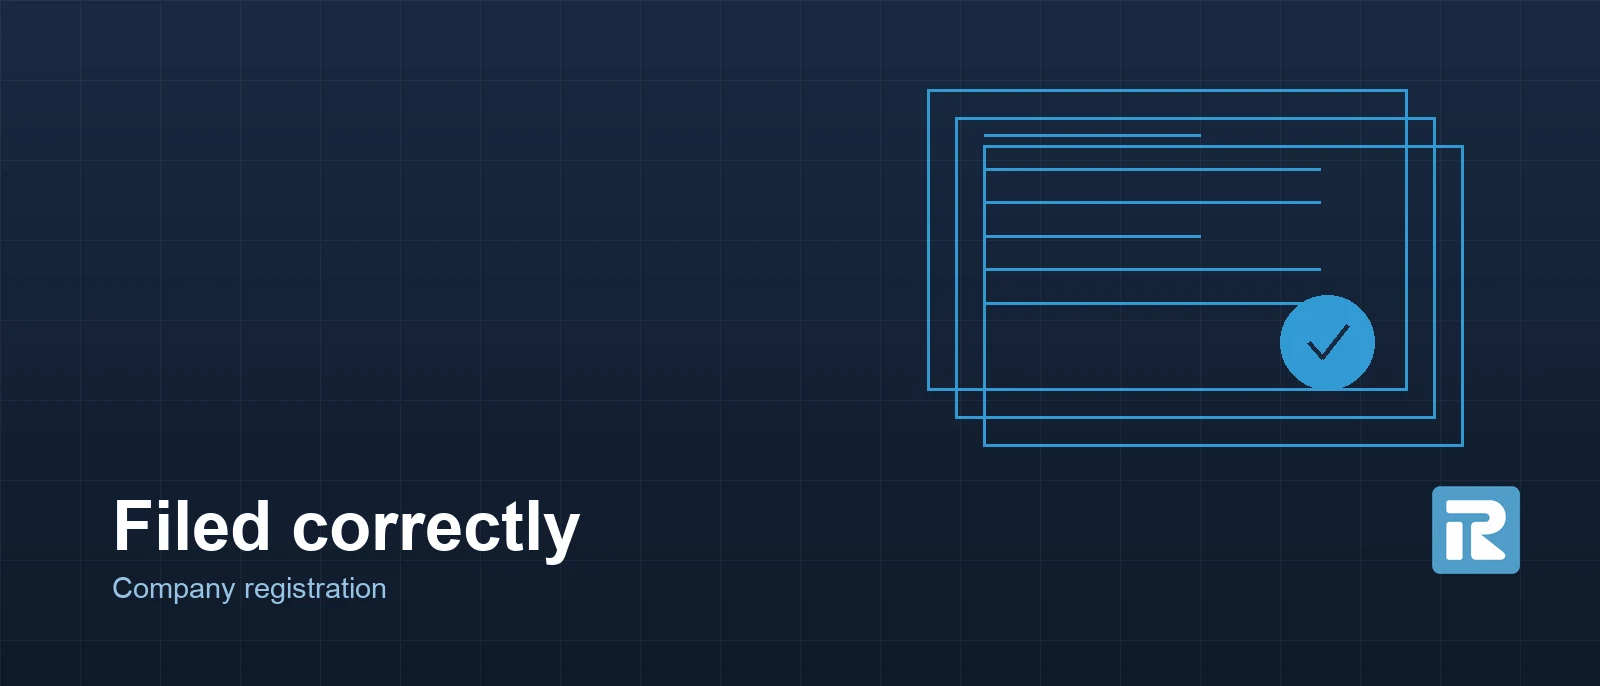
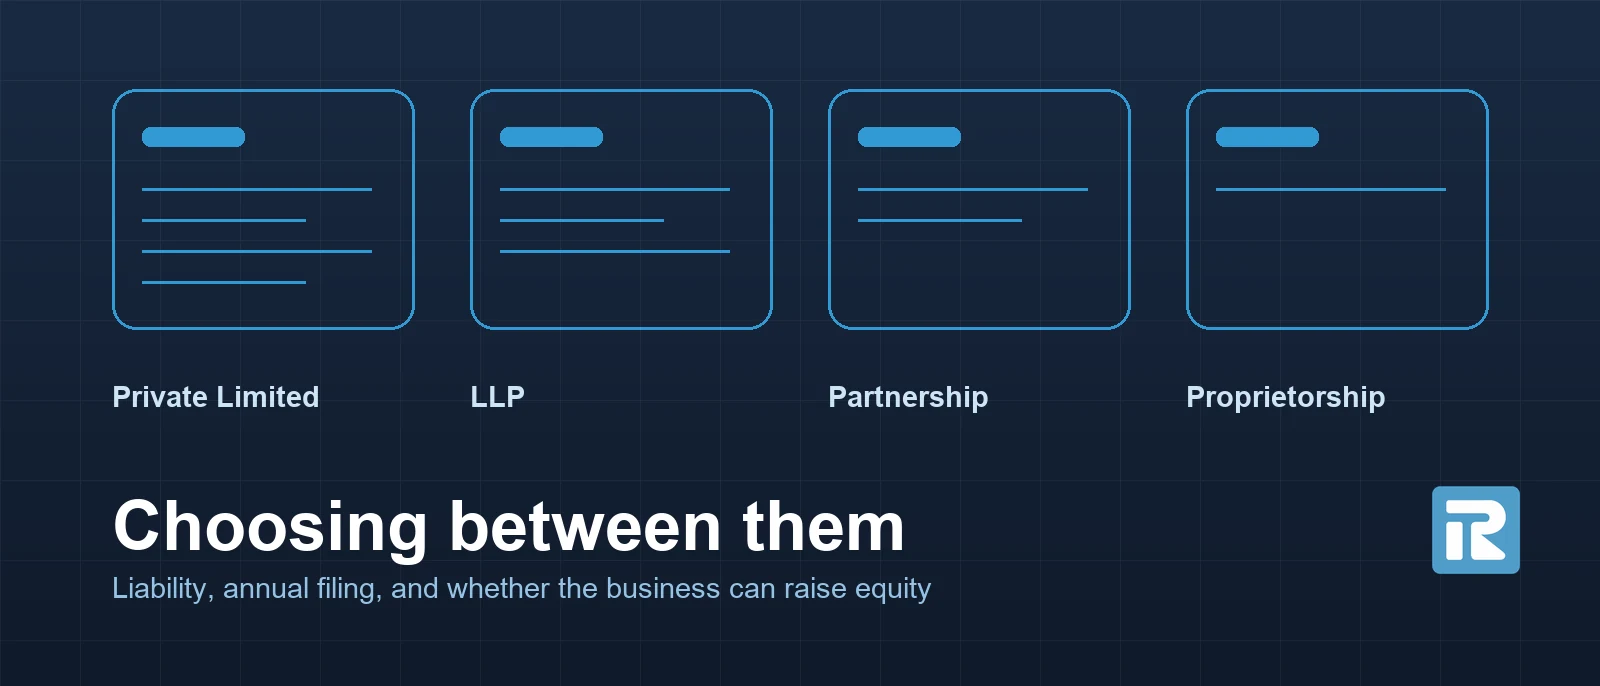
Fix the panels on the pages below the homepage
Three faults, none of them on the homepage.

The registration pillar was showing the same drawing as all four pages
beneath it: /services/business-registration/ and each of the four
structure pages rendered the stacked sheets and seal, so one picture was
doing duty across five pages in the same funnel. The pillar now draws
what it is actually for, which is the choice rather than the filing: the
four structures side by side, with the number of rules inside each card
falling from left to right because the annual compliance does too.

The Raulji Technologies panel was drawn but placed on no page, and what
it drew -- two circles and three floating lines -- said nothing. The
technology pages meanwhile carried a "Technology is a separate brand"
card that was three lines of text above a large empty box. The panel is
redrawn as two site frames, raulji.com and rauljitechnologies.com, with
the one link between them, and now sits in that card on both pages.

Every secondary service page ended in half a blank page: the left column
runs out well before the enquiry form beside it does. Insurance and the
two compliance pages had no imagery at all. Insurance gets a panel whose
caption says the insurer sets the terms, matching the disclaimer already
on the page, and the compliance pages get one financial year with its
filing dates marked. Both are placed through a new image field on the
service, so the template decides where rather than each page.
[…]

diff --git a/lib/secondary-services.ts b/lib/secondary-services.ts
@@ -15,6 +15,8 @@
  * consulting entry here; it would create two pages for the same intent.
  */
 
+import type { ImageSlot } from "@/lib/images";
+
 export interface SecondaryService {
   slug: string;
   path: string;
@@ -27,6 +29,14 @@ export interface SecondaryService {
   /** What the service actually covers. No outcome guarantees. */
   includes: string[];
   note?: string;
+  /**
+   * The panel this page shows. These pages are compact by design, and the left
+   * column runs out well before the enquiry form beside it does, which left a
+   * blank half-page on every one of them. One image per service closes it.
+   * Pages in the same group share a panel; nothing here is drawn twice for the
+   * sake of having a different picture.
+   */
+  image: ImageSlot;
 }
 
 /*
@@ -58,6 +68,7 @@ export const SECONDARY_SERVICES: SecondaryService[] = [
       "Support through the claims process",
     ],
     note: "Policy terms, premiums and claim outcomes are set by the insurer, not by us. We help you understand and arrange cover; we do not underwrite it.",
+    image: "insurance",
   },
   {
     slug: "it",
@@ -78,6 +89,7 @@ export const SECONDARY_SERVICES: SecondaryService[] = [
       "Cloud and infrastructure support",
     ],
     note: "Technology services are offered through Raulji Technologies at rauljitechnologies.com.",
+    image: "technologies",
   },
   {
     slug: "digital",
@@ -98,6 +110,7 @@ export const SECONDARY_SERVICES: SecondaryService[] = [
       "Analytics and reporting",
     ],
     note: "Digital marketing services are offered through Raulji Technologies at rauljitechnologies.com.",
+    image: "technologies",
   },
   {
     slug: "pvt-compliance",
@@ -119,6 +132,7 @@ export const SECONDARY_SERVICES: SecondaryService[] = [
       "Board meeting and minute record-keeping",
     ],
     note: "Statutory audit is required for a Private Limited Company from its first financial year regardless of turnover. Late ROC filing attracts additional fees that accrue over time.",
+    image: "compliance",
   },
   {
     slug: "llp-compliance",
@@ -139,6 +153,7 @@ export const SECONDARY_SERVICES: SecondaryService[] = [
       "Designated partner KYC",
     ],
     note: "Audit is required where turnover exceeds ₹40 lakh or contribution exceeds ₹25 lakh. Late filing of Form 8 or Form 11 attracts a per-day penalty that continues to accrue until the filing is made.",
+    image: "compliance",
   },
 ];
 

diff --git a/components/pages/secondary-service.tsx b/components/pages/secondary-service.tsx
@@ -6,6 +6,7 @@ import { JsonLd } from "@/components/ui/json-ld";
 import { ServiceCards } from "@/components/shared/service-cards";
 import { CtaBanner } from "@/components/shared/cta-banner";
 import { LeadForm } from "@/components/forms/lead-form";
+import { BrandImage } from "@/components/ui/brand-image";
 import type { SecondaryService } from "@/lib/secondary-services";
 import { SITE, telHref } from "@/lib/site";
 import { breadcrumbSchema, graph, type Crumb } from "@/lib/schema";
@@ -85,6 +86,19 @@ export function SecondaryServicePage({ service }: { service: SecondaryService })
                 {service.note}
               </p>
             ) : null}
+
+            {/* The enquiry form beside this column is taller than the list, so
+                the column ended in half a page of nothing on every one of these
+                pages. Drawn at 3:2, the ratio it renders at, and hidden below lg
+                where the two columns stack and it would only add scroll. */}
+            {!isTechnology ? (
+              <BrandImage
+                slot={service.image}
+                sizes="(min-width: 1024px) 34rem, 100vw"
+                aspect="aspect-[3/2]"
+                className="mt-10 hidden lg:block"
+              />
+            ) : null}
           </div>
 
           {!isTechnology ? (
@@ -110,6 +124,16 @@ export function SecondaryServicePage({ service }: { service: SecondaryService })
               >
                 Go to rauljitechnologies.com &rarr;
               </a>
+              {/* A technology page has no enquiry form, so this card carried
+                  three lines of text and a large empty box below them. The
+                  panel draws the same point the card makes: two sites, one
+                  link. */}
+              <BrandImage
+                slot={service.image}
+                sizes="(min-width: 1024px) 30rem, 100vw"
+                aspect="aspect-[3/2]"
+                className="mt-7"
+              />
             </div>
           )}
         </div>

diff --git a/lib/images.ts b/lib/images.ts
@@ -9,6 +9,8 @@ import documents from "@/public/photos/raulji-group-documents.webp";
 import gujarat from "@/public/photos/raulji-group-gujarat.webp";
 import technologies from "@/public/photos/raulji-technologies.webp";
 import enquiry from "@/public/photos/raulji-group-enquiry.webp";
+import insurance from "@/public/photos/raulji-group-insurance.webp";
+import compliance from "@/public/photos/raulji-group-compliance.webp";
 
 /**
  * The image slots from the plan in AUDIT.md.
@@ -61,9 +63,10 @@ export const IMAGES = {
     alt: "Business consulting at Raulji Group: clearer decisions",
     placeholder: false,
   },
+  /** Wide band, 21:9. The four structures a business can register as. */
   registration: {
     src: registration,
-    alt: "Company registration handled by Raulji Group",
+    alt: "The four registration structures side by side: Private Limited, LLP, Partnership and Proprietorship, each with less annual filing than the last",
     placeholder: false,
   },
   meeting: {
@@ -83,12 +86,22 @@ export const IMAGES = {
   },
   technologies: {
     src: technologies,
-    alt: "Raulji Technologies, the group's separate technology brand",
+    alt: "raulji.com and rauljitechnologies.com drawn as two separate sites with one link between them",
     placeholder: false,
   },
   enquiry: {
     src: enquiry,
     alt: "Tell Raulji Group what you are building",
+    placeholder: false,
+  },
+  insurance: {
+    src: insurance,
+    alt: "Insurance cover drawn over a business, arranged by Raulji Group and underwritten by the insurer",
+    placeholder: false,
+  },
+  compliance: {
+    src: compliance,
+    alt: "One financial year with its filing dates marked on it",
     placeholder: false,
   },
 } as const satisfies Record<string, BrandImageEntry>;

diff --git a/scripts/gen-panels.py b/scripts/gen-panels.py
@@ -138,17 +138,34 @@ def gujarat(w=1600,h=900):
     cr=int(w/26); d.ellipse([cx-cr,cy-cr,cx+cr,cy+cr],fill=(*BLUE,255))
     return label(im,"Across Gujarat","Filed online from Vadodara")
 
-# 6. Technologies: the separate brand, shown as a second node.
+# 6. Technologies: two sites, not one catalogue.
+# The page this sits on exists to send people somewhere else, so the drawing is
+# two separate frames and the one link between them. The right hand one is
+# outline only: it is not this site, and it is not drawn as though it were.
 def technologies(w=1200,h=800):
     im=base(w,h); d=ImageDraw.Draw(im)
-    y=int(h*0.34); ax,bx=int(w*0.56),int(w*0.84); r=int(w/22)
-    d.line([(ax+r,y),(bx-r,y)],fill=(*BLUE,110),width=3)
-    d.ellipse([ax-r,y-r,ax+r,y+r],outline=(*BLUE,220),width=4)
-    d.ellipse([bx-r,y-r,bx+r,y+r],fill=(*BLUE,255))
-    for i in range(3):
-        yy=y+int(h*0.16)+i*int(h*0.06)
-        d.line([(bx-r,yy),(bx+r,yy)],fill=(*BLUE,70),width=2)
-    return label(im,"Raulji Technologies","A separate technology brand")
+    top=int(h*0.14); fh=int(h*0.30)
+    def frame(x0,x1,here):
+        bar=int(h*0.045)
+        a=235 if here else 110
+        d.rounded_rectangle([x0,top,x1,top+fh],radius=int(h*0.022),outline=(*BLUE,a),width=4 if here else 3)
+        d.line([(x0,top+bar),(x1,top+bar)],fill=(*BLUE,a-40),width=3)
+        for i in range(3):
+            ly=top+bar+int(fh*(i+1)/4.6)
+            lw=(x1-x0)*(0.62 if i%2 else 0.40)
+            d.line([(x0+int((x1-x0)*0.10),ly),(x0+int((x1-x0)*0.10)+lw,ly)],fill=(*BLUE,90 if here else 55),width=3)
+    ax0,ax1=int(w*0.09),int(w*0.44)
+    bx0,bx1=int(w*0.56),int(w*0.91)
+    frame(ax0,ax1,True)
+    frame(bx0,bx1,False)
+    # the one link between them, drawn as a link and nothing more
+    my=top+fh//2
+    d.line([(ax1+int(w*0.015),my),(bx0-int(w*0.030),my)],fill=(*BLUE,150),width=3)
+    d.polygon([(bx0-int(w*0.012),my),(bx0-int(w*0.032),my-int(h*0.018)),(bx0-int(w*0.032),my+int(h*0.018))],fill=(*BLUE,200))
+    f=font(int(w/56),True)
+    d.text((ax0,top+fh+int(h*0.045)),"raulji.com",font=f,fill=(210,230,245))
+    d.text((bx0,top+fh+int(h*0.045)),"rauljitechnologies.com",font=f,fill=(150,195,228))
+    return label(im,"On its own domain","Technology work is delivered by Raulji Technologies")
 
 # 7. Enquiry: a form and a reply.
 def enquiry(w=1200,h=800):
@@ -179,12 +196,75 @@ def group(w=1800,h=771):
     d.text((px-int(pr*2.4),py-int(h*0.20)),"Raulji Group",font=font(int(w/48),True),fill=(255,255,255))
     return label(im,"One group, two brands","Kept separate because they do different work")
 
+# 9. The registration pillar: the four structures, side by side.
+# It previously reused the documents drawing, which is what every page below it
+# already shows, so the pillar and its four children carried one picture between
+# them. This draws what the pillar is for: the choice, not the filing. The
+# number of rules inside each card falls from left to right because the annual
+# compliance does too, which is what the page says in words.
+def structures(w=1600,h=686):
+    im=base(w,h); d=ImageDraw.Draw(im)
+    names=[("Private Limited",4),("LLP",3),("Partnership",2),("Proprietorship",1)]
+    x0,x1=int(w*0.07),int(w*0.93); gap=int(w*0.035)
+    cw=(x1-x0-gap*(len(names)-1))//len(names)
+    top=int(h*0.13); ch=int(h*0.35)
+    for i,(name,rules) in enumerate(names):
+        x=x0+i*(cw+gap)
+        d.rounded_rectangle([x,top,x+cw,top+ch],radius=int(h*0.035),outline=(*BLUE,175),width=3)
+        d.rounded_rectangle([x+int(cw*0.10),top+int(ch*0.16),x+int(cw*0.44),top+int(ch*0.16)+int(h*0.028)],
+                            radius=int(h*0.012),fill=(*BLUE,235))
+        for k in range(rules):
+            ly=top+int(ch*0.42)+k*int(ch*0.13)
+            d.line([(x+int(cw*0.10),ly),(x+int(cw*(0.86 if k%2==0 else 0.64)),ly)],fill=(*BLUE,85),width=3)
+        d.text((x,top+ch+int(h*0.075)),name,font=font(int(w/54),True),fill=(205,228,244))
+    return label(im,"Choosing between them","Liability, annual filing, and whether the business can raise equity")
+
+# 10. Insurance: what the page can honestly claim. Cover is arranged over a
+# business; the terms belong to the insurer, and the caption says so rather than
+# drawing a guarantee.
+def insurance(w=1200,h=800):
+    im=base(w,h); d=ImageDraw.Draw(im)
+    cx,base_y=int(w*0.70),int(h*0.47)
+    bw,bh=int(w*0.15),int(h*0.15)
+    d.rounded_rectangle([cx-bw//2,base_y-bh,cx+bw//2,base_y],radius=int(h*0.02),outline=(*BLUE,220),width=4)
+    for i in range(2):
+        ly=base_y-bh+int(bh*(i+1)/3)
+        d.line([(cx-bw//2,ly),(cx+bw//2,ly)],fill=(*BLUE,70),width=2)
+    for r,alpha,dash in ((int(w*0.19),200,False),(int(w*0.25),95,True)):
+        box=[cx-r,base_y-r,cx+r,base_y+r]
+        if not dash:
+            d.arc(box,200,340,fill=(*BLUE,alpha),width=5)
+        else:
+            for a in range(200,340,10):
+                d.arc(box,a,a+6,fill=(*BLUE,alpha),width=4)
+    d.line([(cx-int(w*0.26),base_y),(cx+int(w*0.26),base_y)],fill=(*BLUE,70),width=3)
+    return label(im,"Cover that fits the business","We help arrange it; the insurer sets the terms")
+
+# 11. Compliance: the year, with the dates that come round on it. Not a chart,
+# and nothing counted: an annual cycle drawn as an annual cycle.
+def compliance(w=1200,h=800):
+    im=base(w,h); d=ImageDraw.Draw(im)
+    x0,x1=int(w*0.40),int(w*0.93); y=int(h*0.30); bh=int(h*0.095)
+    d.rounded_rectangle([x0,y,x1,y+bh],radius=int(h*0.014),outline=(*BLUE,170),width=3)
+    seg=(x1-x0)/12
+    for i in range(1,12):
+        d.line([(x0+int(seg*i),y),(x0+int(seg*i),y+bh)],fill=(*BLUE,55),width=2)
+    for i in (2,5,8,10):
+        d.rounded_rectangle([x0+int(seg*i)+3,y+3,x0+int(seg*(i+1))-3,y+bh-3],radius=int(h*0.008),fill=(*BLUE,230))
+        mx=x0+int(seg*(i+0.5))
+        d.polygon([(mx,y-int(h*0.026)),(mx-int(w*0.014),y-int(h*0.070)),(mx+int(w*0.014),y-int(h*0.070))],fill=(*BLUE,170))
+    d.line([(x0,y+bh+int(h*0.055)),(x1,y+bh+int(h*0.055))],fill=(*BLUE,45),width=2)
+    d.text((x0,y+bh+int(h*0.085)),"One financial year",font=font(int(w/58),True),fill=(150,195,228))
+    return label(im,"The filings a year brings","The dates that come round every year")
+
 save(group(),"raulji-group-structure")
 save(office(1200,900),"raulji-group-office")
 save(consulting(1200,800),"raulji-group-business-consulting")
-save(documents(1600,686,title="Filed correctly",sub="Company registration"),"raulji-group-company-registration")
+save(structures(),"raulji-group-company-registration")
 save(documents(title="Documents in order",sub="What registration needs"),"raulji-group-documents")
 save(meeting(),"raulji-group-client-meeting")
 save(gujarat(),"raulji-group-gujarat")
 save(technologies(),"raulji-technologies")
 save(enquiry(),"raulji-group-enquiry")
+save(insurance(),"raulji-group-insurance")
+save(compliance(),"raulji-group-compliance")
